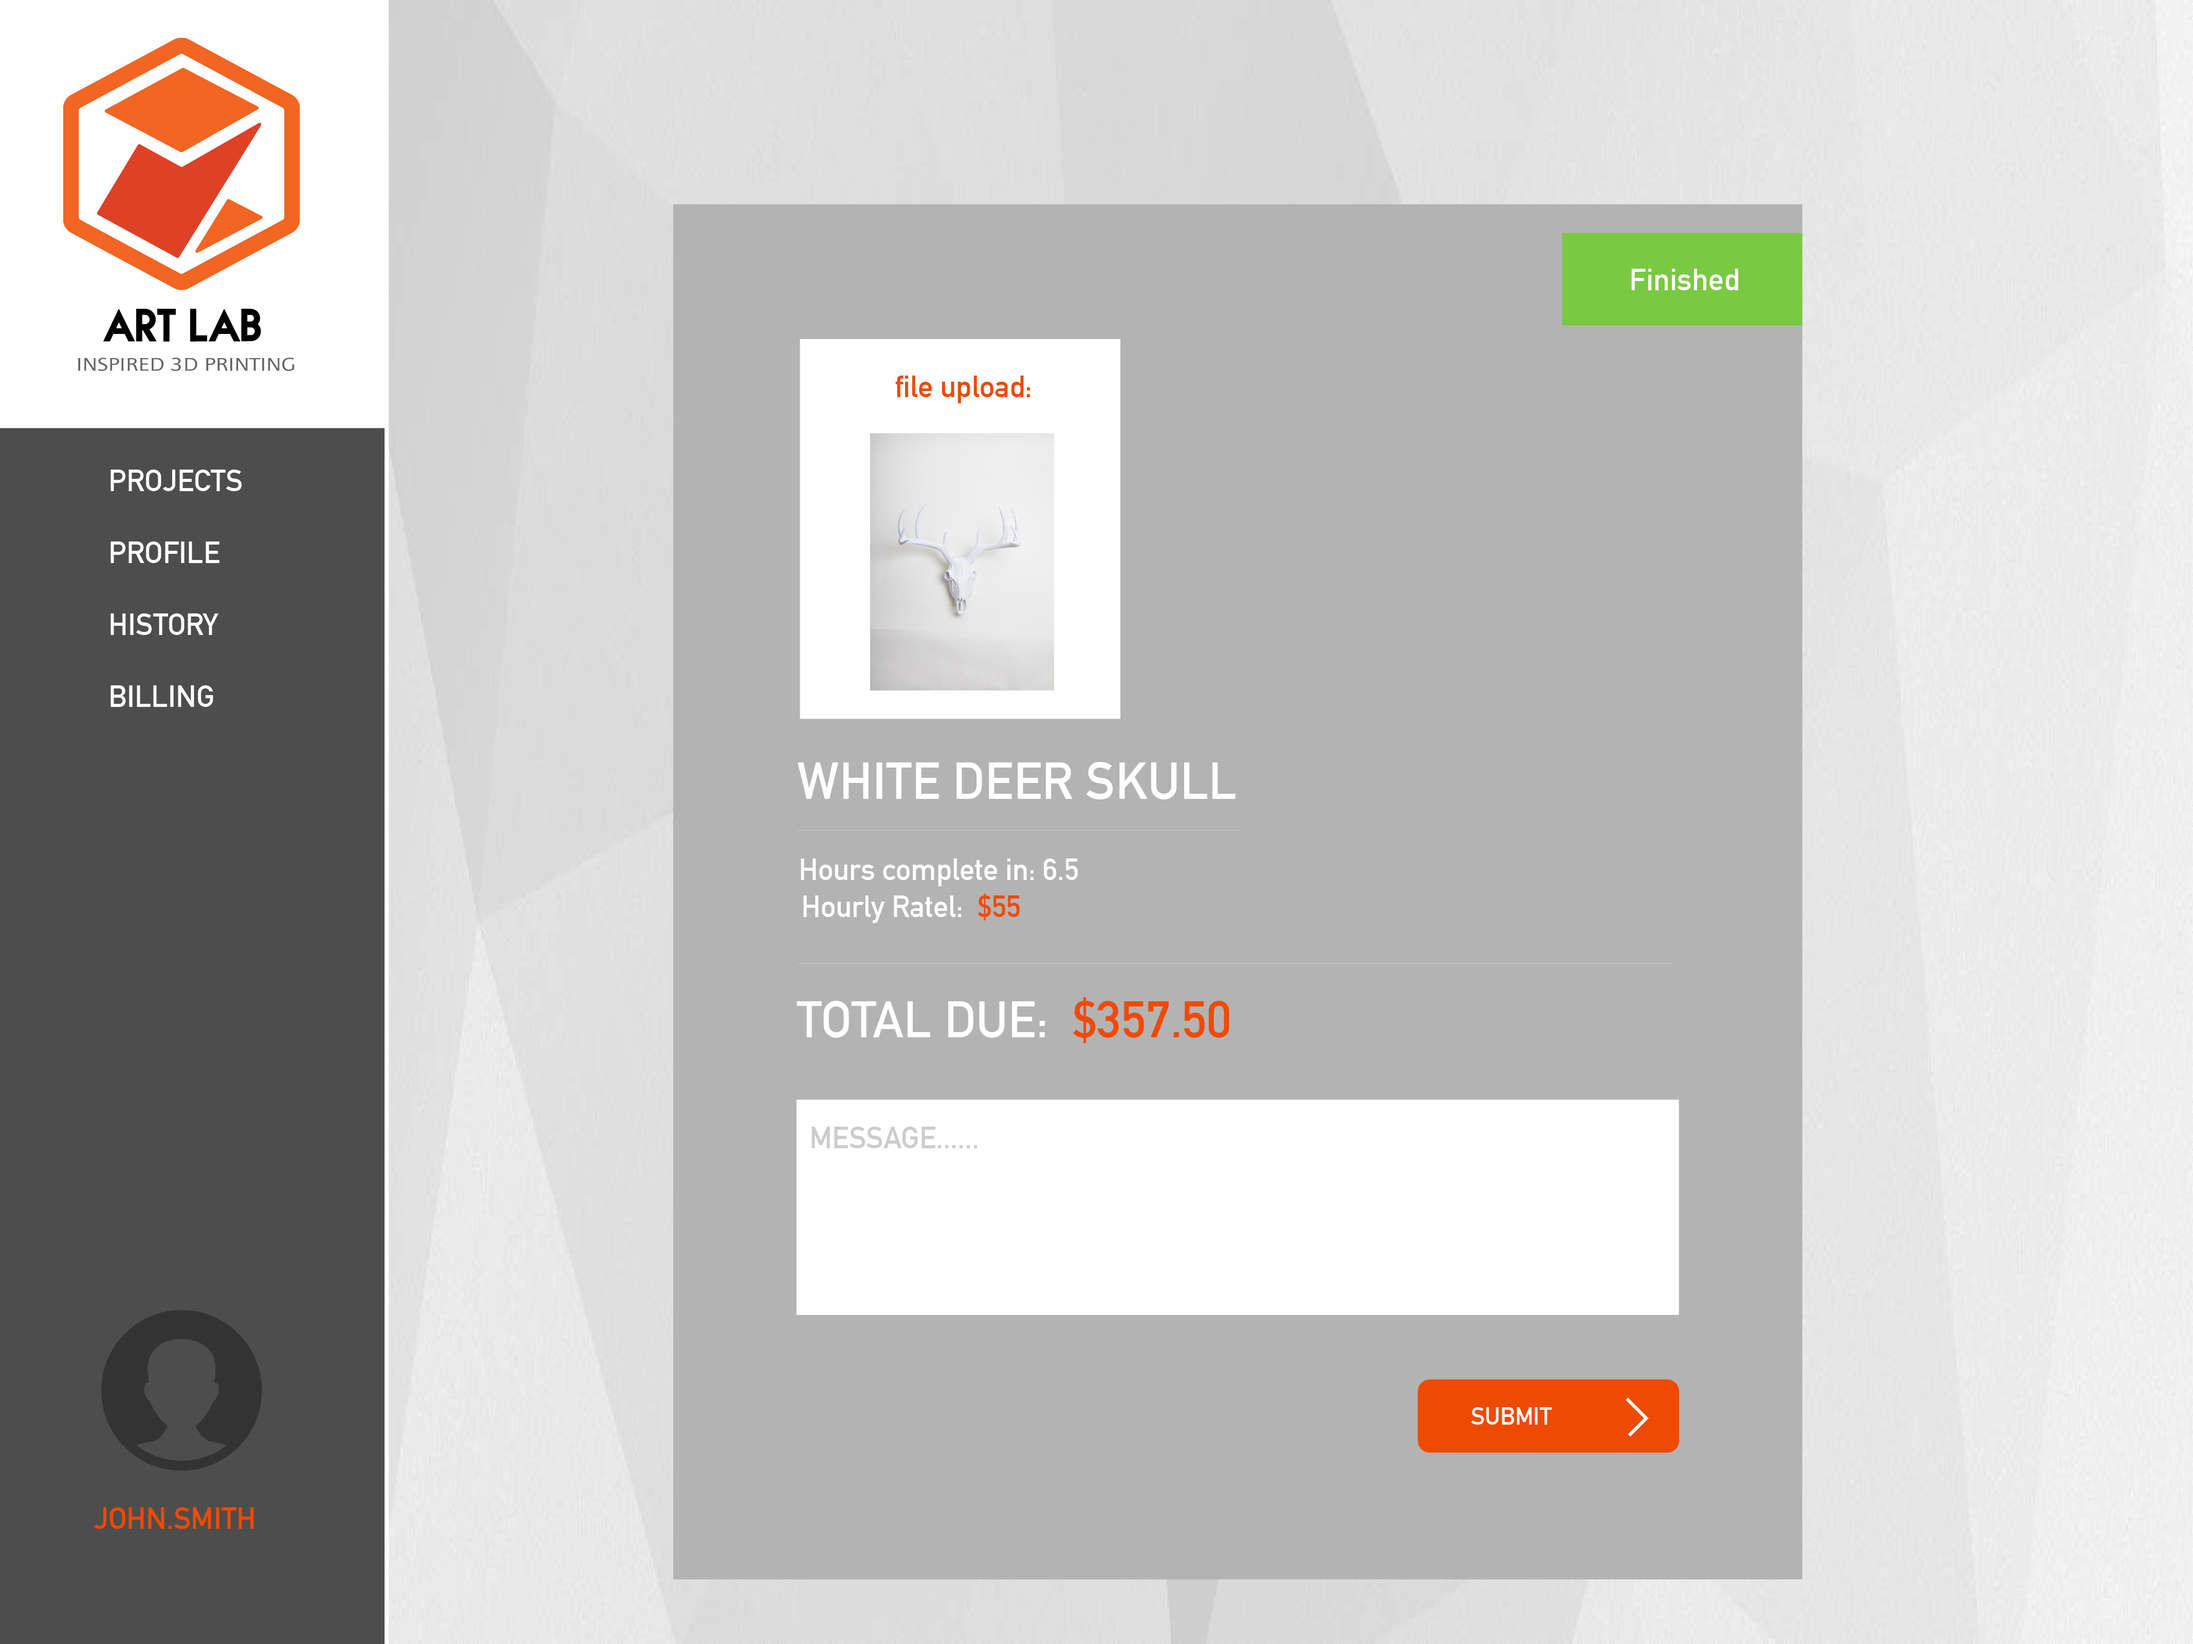
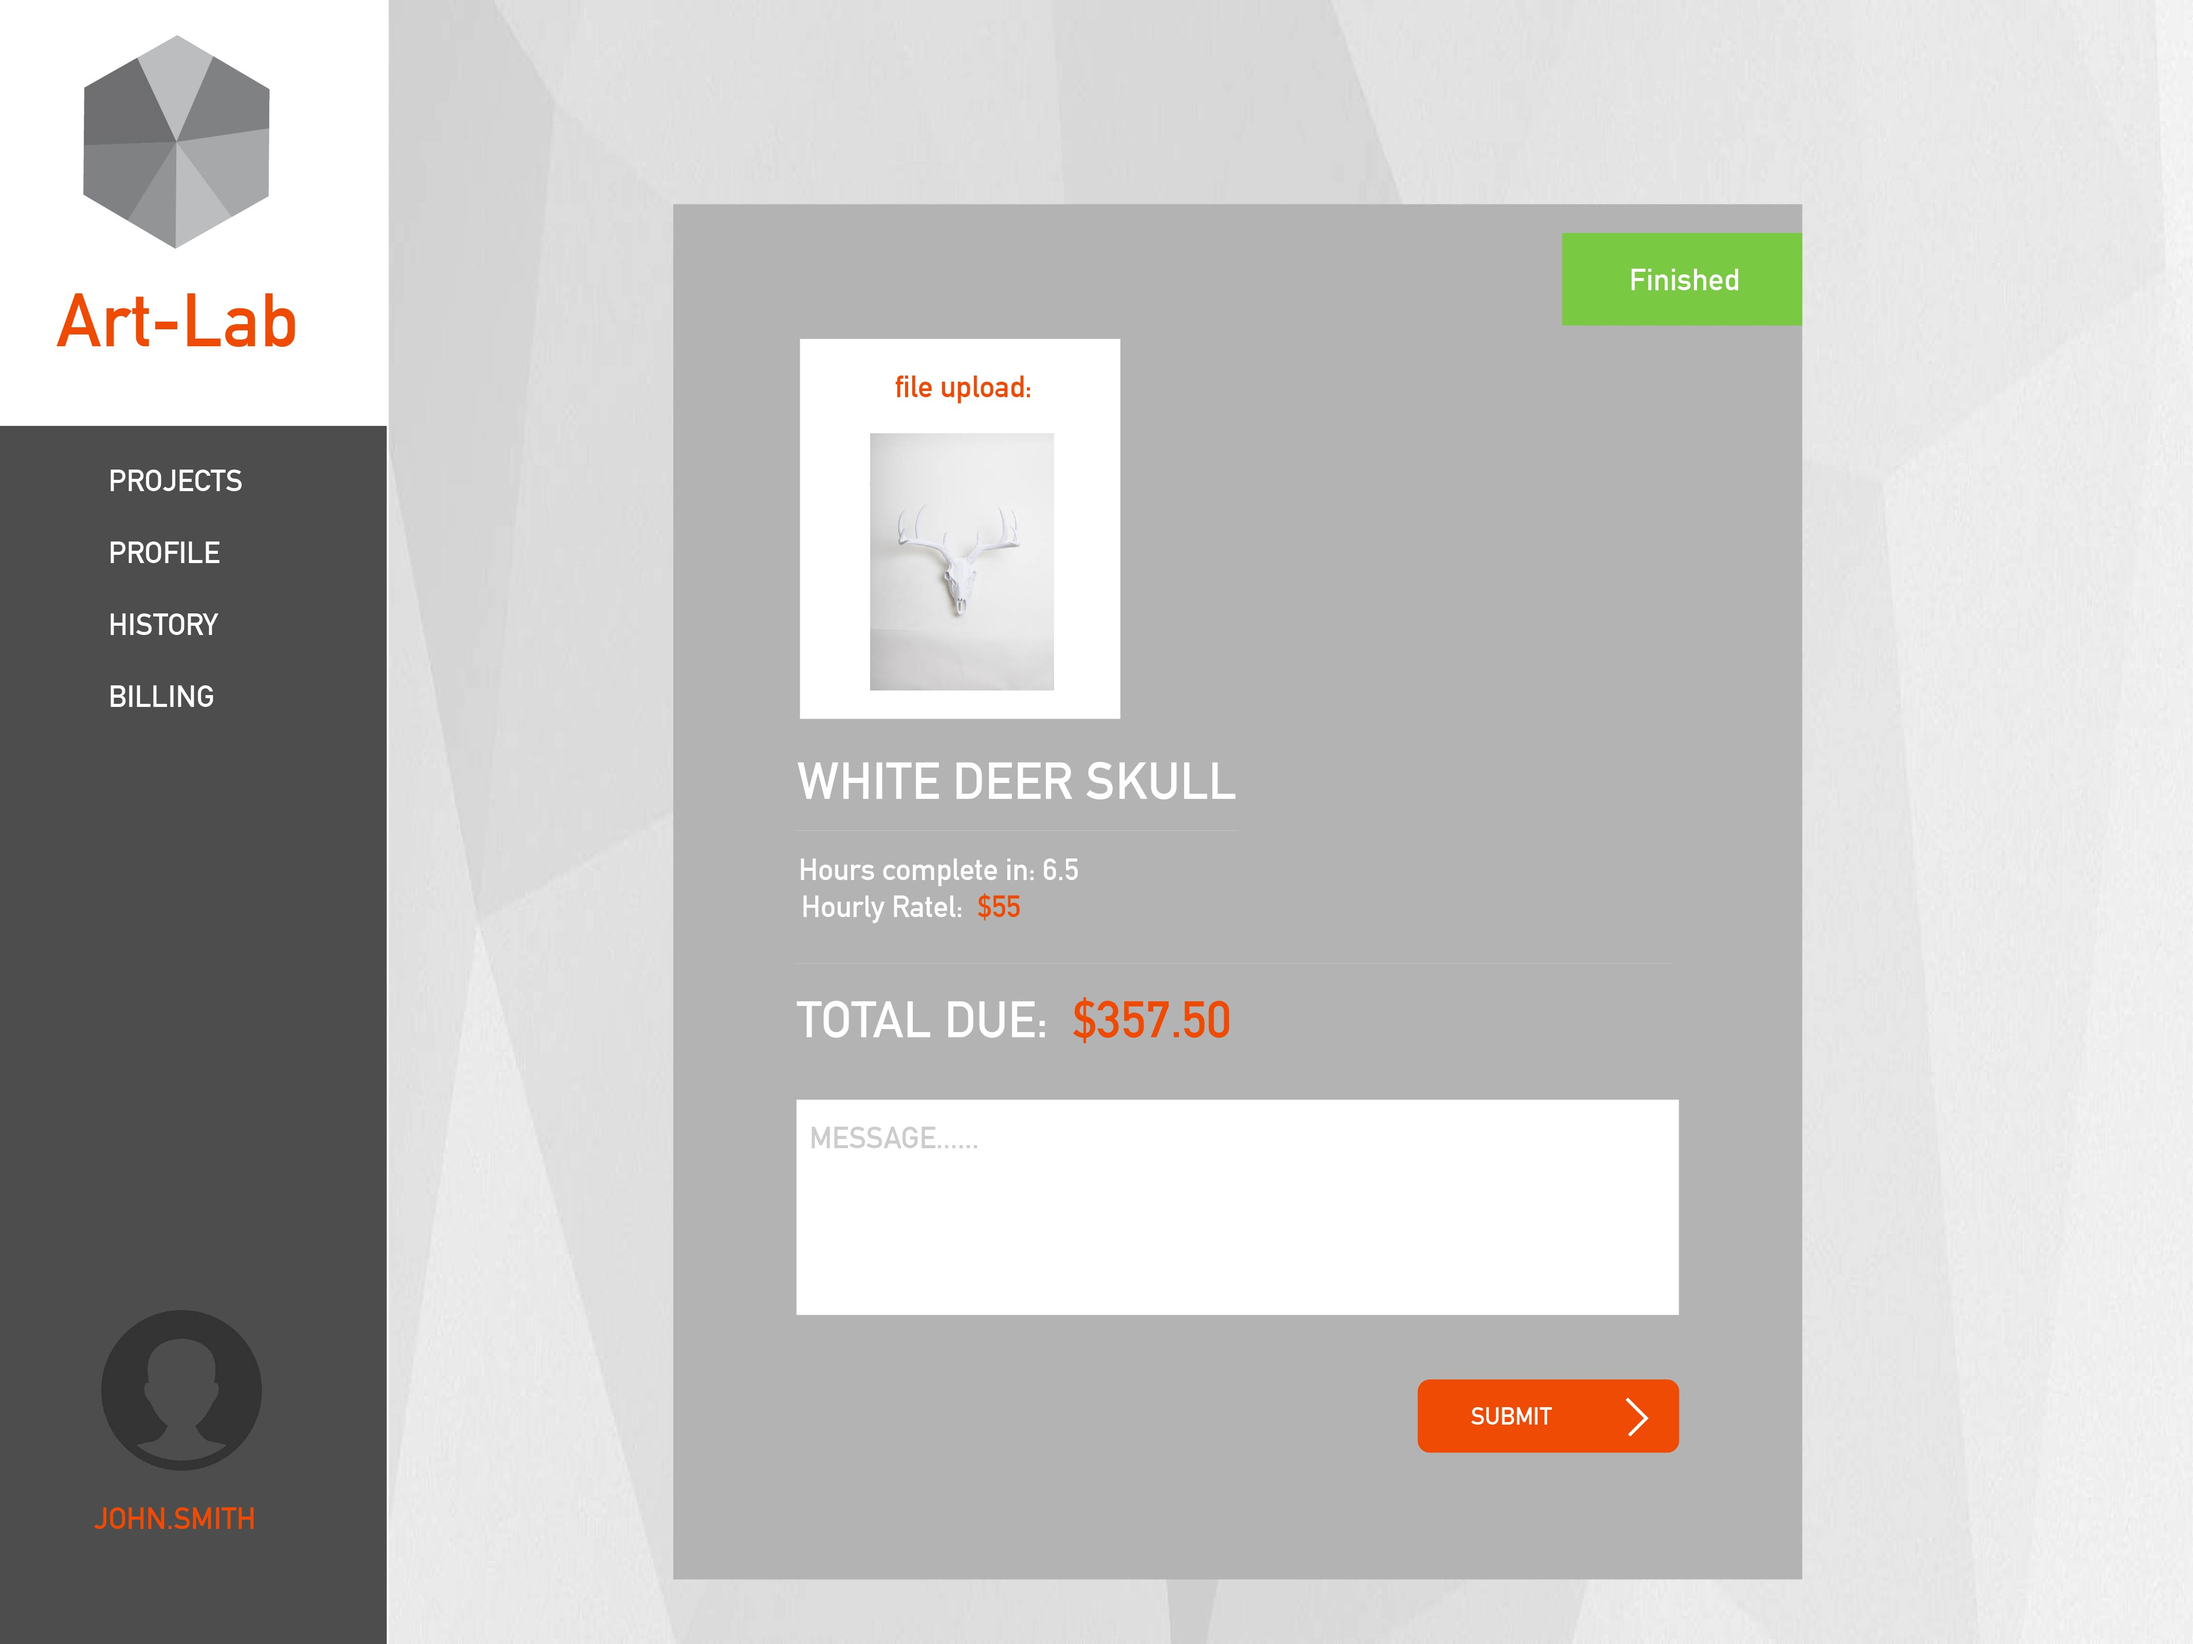
updates

Changed region(s): [[0.0312, 0.0, 0.1558, 0.2188]]

diff --git a/art-lab.html b/art-lab.html
@@ -51,7 +51,7 @@
 
         <div class="text-intro">
 
-          <h1>Art Lab</h1>
+          <h1 id="title">Art Lab</h1>
           
                     
 	          
@@ -77,23 +77,12 @@
                 
                 <div class="double">
 
-                  <h3>Process Part 2: Wireframing</h3>
+                  <h3>Process Part 2: Wireframing { This step was completed by someone else }</h3>
 
                   <img id="icon" src="img/icons/5.png">
                   
                   <div class="wireframes">
-                        <img src="img/zverse/1.jpg" width="60%">
-                        <img src="img/zverse/2.jpg" width="60%">
-                        <img src="img/zverse/3.jpg" width="60%">
-                        <img src="img/zverse/4.jpg" width="60%">
-                        <img src="img/zverse/5.jpg" width="60%">
-                        <img src="img/zverse/6.jpg" width="60%">
-                        <img src="img/zverse/7.jpg" width="60%">
-                        <img src="img/zverse/8.jpg" width="60%">
-                        <img src="img/zverse/9.jpg" width="60%">
-                        <img src="img/zverse/10.jpg" width="60%">
-                        <img src="img/zverse/11.jpg" width="60%">
-                        <img src="img/zverse/12.jpg" width="60%">
+                        
                         
 
                         
@@ -104,16 +93,16 @@
                 
                 <img id="icon" src="img/icons/5.png">
 
-				        <img src="img/zverse/mockups1.jpg" width="60%"><br/><br/><br/><br/>
-                <img src="img/zverse/mockups2.jpg" width="60%"><br/><br/><br/><br/>
-                <img src="img/zverse/mockups3.jpg" width="60%"><br/><br/><br/><br/>
-                <img src="img/zverse/mockups4.jpg" width="60%"><br/><br/><br/><br/>
-                <img src="img/zverse/mockups5.jpg" width="60%"><br/><br/><br/><br/>
-                <img src="img/zverse/mockups6.jpg" width="60%"><br/><br/><br/><br/>
+				        <img src="img/zverse/mockups1.png" width="60%"><br/><br/><br/><br/>
+                <img src="img/zverse/mockups2.png" width="60%"><br/><br/><br/><br/>
+                <img src="img/zverse/mockups3.png" width="60%"><br/><br/><br/><br/>
+                <img src="img/zverse/mockups4.png" width="60%"><br/><br/><br/><br/>
+                <img src="img/zverse/mockups5.png" width="60%"><br/><br/><br/><br/>
+                <img src="img/zverse/mockups6.png" width="60%"><br/><br/><br/><br/>
                 <h3>Here are some alternative designs for a couple of the pages</h3>
-                <img src="img/zverse/mockups7.jpg" width="60%"><br/><br/><br/><br/>
-                <img src="img/zverse/mockups8.jpg" width="60%"><br/><br/><br/><br/>
-                <img src="img/zverse/mockups9.jpg" width="60%"><br/><br/><br/><br/>
+                <img src="img/zverse/mockups7.png" width="60%"><br/><br/><br/><br/>
+                <img src="img/zverse/mockups8.png" width="60%"><br/><br/><br/><br/>
+                <img src="img/zverse/mockups9.png" width="60%"><br/><br/><br/><br/>
 
                 <h3>With mockups complete it was time to hand the designs over to a front end developer.</h3>
                  

diff --git a/index.html b/index.html
@@ -75,18 +75,26 @@
       <div class="about_me">
         <p class="what_i_do"> I got Skillz</p>
 
-        <img src="img/icons/1.png">
+        <div class="skills">
+          <img src="img/icons/1.png">
+          <p class="title">Ui and Ux Design</p>
+        </div>
 
-        <p class="title">Ui and Ux Design</p>
+        <div class="skills">
+          <img src="img/icons/2.png">
+          <p class="title">Front End Development</p>
+        </div>
 
-        <img src="img/icons/2.png">
-        <p class="title">Front End Development</p>
+        <div class="skills">
+          <img src="img/icons/3.png">
+          <p class="title">Graphic <br> Design</p>
+        </div>
 
-        <img src="img/icons/3.png">
-        <p class="title">Graphic Design</p>
+        <div class="skills">
+          <img src="img/icons/4.png">
+          <p class="title">Industrial Design</p>
+        </div>
 
-        <img src="img/icons/4.png">
-        <p class="title">Industrial Design</p>
       </div>
       <div class="portfolio">
         <a href="projects.html">Click here to see some of my work</a>

diff --git a/css/style.css b/css/style.css
@@ -400,6 +400,13 @@ position: relative;
   background-size: cover;
 
 }
+
+.skills {
+  display: inline-block;
+  width: 20%;
+
+}
+
 .description{
   margin: 0 auto;
   
@@ -407,7 +414,7 @@ position: relative;
   padding-left: 20%;
 }
 .about_me img{
-  width: 10%;
+  width: 30%;
 }
 
 .bio{
@@ -531,6 +538,19 @@ position: relative;
 
 }
 
+#title{
+  display: inline-block;
+  text-align: center;
+  padding-left: 0;
+  
+  font-size:60px;
+  color: #F26523;
+  font-weight:800;
+  line-height:70px;
+  margin-right: 0;
+  padding-top: 50px;
+
+}
 .contact_me h2{
 
   color: white;

diff --git a/css/style-responsive.css b/css/style-responsive.css
@@ -1,3 +1,18 @@
+
+
+@media all and (max-width: 880px) and (min-width: 330px){
+
+.skills{
+	display: block;
+	width: 70%;
+}
+
+}
+
+
+
+
+
 @media all and (max-width: 1024px) and (min-width: 330px){
 
 body{
@@ -28,6 +43,7 @@ body{
   background-color: #297CFF;
   list-style-type: none;
 }
+
 
 
 

diff --git a/Grazr.html b/Grazr.html
@@ -53,7 +53,7 @@
 
         <div class="text-intro">
 
-          <h1>Grazr</h1>
+          <h1 id="title">Grazr</h1>
           
                     
 	          

diff --git a/Grok.html b/Grok.html
@@ -51,7 +51,7 @@
 
         <div class="text-intro">
 
-          <h1>Grok</h1>
+          <h1 id="title">Grok</h1>
           
                     
 	          
